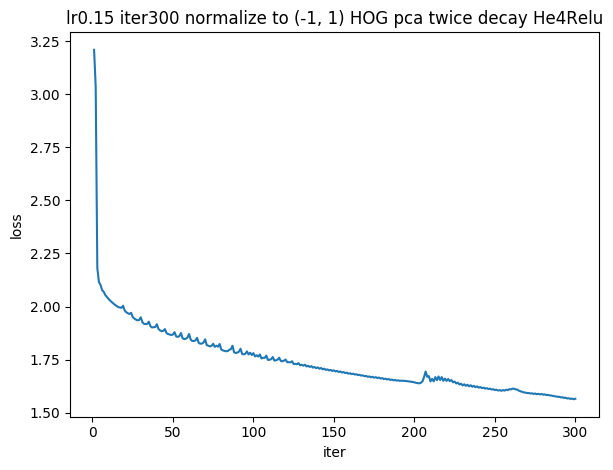
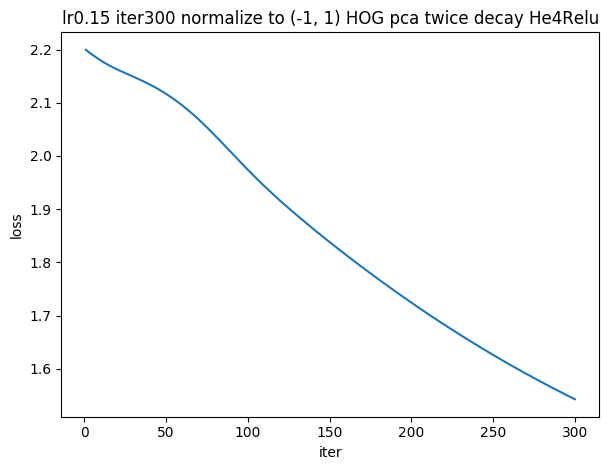
[add] add SGD module and Momentum.

diff --git a/Project3_NeuralNetwork/classify.py b/Project3_NeuralNetwork/classify.py
@@ -40,7 +40,7 @@ image_size = train_X.shape[1]
 print("image size is : ", image_size)
 
 # he for relu
-HeParam = 1
+HeParam = 2
 W1 = np.random.randn(image_size, int(image_size / 3)) / math.sqrt(image_size/HeParam)
 b1 = np.zeros(int(image_size / 3))
 W2 = np.random.randn(int(image_size / 3), int(image_size / 3 / 32)) / math.sqrt(int(image_size / 3 / HeParam))
@@ -53,12 +53,14 @@ lr0.00005 + 0.99decay + 300epochs + He -> acc15.4%
 lr0.00005 + 300epochs + He -> acc17.3%
 lr0.05 + 300epochs + normalize to (-1, 1) + He -> acc40.9%
 lr0.5 + 300epochs + normalize to (-1, 1) + He -> acc 40.2%
-lr0.5 + 300epochs + normalize to (-1, 1) + He -> acc 37.56%
-lr0.5 + 300epochs + normalize to (-1, 1) + He4relu -> acc 37.6% (lower loss decent rate)
-lr0.15 + 300epochs + normalize to (-1, 1) + He4relu -> acc 33.7%
+lr0.5 + 300epochs + normalize to (-1, 1) + He + PCA864 -> acc 37.56%
+lr0.5 + 300epochs + normalize to (-1, 1) + He4relu + PCA864 -> acc 37.6% (lower loss decent rate)
+lr0.15 + 300epochs + normalize to (-1, 1) + He4relu + PCA864 -> acc 33.7%
 lr0.5 + 1000epochs + normalize to (-1, 1) + He -> acc 41.3%
 lr0.5 + 300epochs + normalize to (-1, 1) + PCA864 + He -> acc 42.6% : fig1
 lr0.5 + 300epochs + normalize to (-1, 1) + HOG + He -> acc39.5% : fig 2
+lr0.5 + 300epochs + normalize to (-1, 1) + HOG + PCA864 + decay0.999 + He -> acc37.1%
+lr0.5 + 300epochs + normalize to (-1, 1) + HOG + PCA864 + decay0.999 + He -> acc37.8%
 lr0.5 + 300epochs + normalize to (-1, 1) + HOG + PCA864 + decay0.999 + He-> acc48.8%
 lr0.5 + 5000epochs + normalize to (-1, 1) + HOG + PCA864 + decay0.999 + He -> acc55.9%
 lr0.5 + 5000epochs + normalize to (-1, 1) + HOG + PCA864 + twice decay(3500, 0.999->0.99) + He-> acc57.1%
@@ -67,15 +69,16 @@ lr0.5 + 5000epochs + normalize to (-1, 1) + HOG + PCA864 + twice decay(3500, 0.9
 lr = 0.15
 lr_decay = 0.999
 regu_rate = 0.001
-max_iter = 300
+max_iter = 5000
 loss_old = 9999999999999
 loss_history = []
+optimizer = 'Momentum'
 
-fc1 = FC(W1, b1, lr, regu_rate, 'SGD')
+fc1 = FC(W1, b1, lr, regu_rate, optimizer)
 relu1 = Relu()
-fc2 = FC(W2, b2, lr, regu_rate, 'SGD')
+fc2 = FC(W2, b2, lr, regu_rate, optimizer)
 relu2 = Relu()
-fc3 = FC(W3, b3, lr, regu_rate, 'SGD')
+fc3 = FC(W3, b3, lr, regu_rate, optimizer)
 cross_entropy = SparseSoftmaxCrossEntropy()
 
 for i in range(max_iter):
@@ -88,7 +91,7 @@ for i in range(max_iter):
     loss = cross_entropy.forward(h5, train_y)
     loss_history.append(loss)
     # update lr to control the direction
-    if loss_old < loss and i > 300:
+    if loss_old < loss and i > 200:
         fc1.update_lr(lr_decay)
         fc2.update_lr(lr_decay)
         fc3.update_lr(lr_decay)
@@ -121,5 +124,5 @@ print('acc: ', valid_acc.__str__())
 
 draw_figure(range(1, max_iter + 1), loss_history, 'iter', 'loss',
             'lr' + lr.__str__() + ' iter' + max_iter.__str__() + ' normalize to (-1, 1)' +
-            ' HOG' + ' pca' + ' twice decay' + ' He', save_dir=plt_path)
+            ' HOG' + ' pca' + ' twice decay' + ' He4Relu' + ' Momentum', save_dir=plt_path)
 

diff --git a/Project3_NeuralNetwork/NeuralNetwork.py b/Project3_NeuralNetwork/NeuralNetwork.py
@@ -9,6 +9,8 @@ class FC:
         self.regu_rate = regu_rate
         if optimizer == 'SGD':
             self.optimizer = SGD()
+        elif optimizer == 'Momentum':
+            self.optimizer = Momentum()
 
     def set_lr(self, lr):
         self.lr = lr
@@ -51,14 +53,14 @@ class Relu:
 class SparseSoftmaxCrossEntropy:
     def forward(self, X, y):
         self.X = X.copy()
-        print("X's shape: ", np.shape(self.X))
+        # print("X's shape: ", np.shape(self.X))
         self.y = y.copy()
-        print("y's shape: ", np.shape(self.y))
+        # print("y's shape: ", np.shape(self.y))
         denom = np.sum(np.exp(self.X), axis=1).reshape([-1, 1])
         self.softmax = np.exp(X) / denom
-        print("softmax's shape: ", np.shape(self.softmax))
+        # print("softmax's shape: ", np.shape(self.softmax))
         cross_entropy = np.mean(-np.log(self.softmax[range(self.X.shape[0]), self.y]))
-        print("cross_entropy's shape: ", np.shape(cross_entropy))
+        # print("cross_entropy's shape: ", np.shape(cross_entropy))
         return cross_entropy
 
     def backprop(self):
@@ -82,6 +84,9 @@ class Momentum:
         if self.v is None:
             self.v = np.zeros_like(weights)
         self.v = self.momentum * self.v - lr * grads
+        # print("grads' shape: ", np.shape(grads))
+        # print("weights' shape: ", np.shape(weights))
+        # print("v's shape: ", np.shape(self.v))
         weights += self.v
-
+        return weights
 
